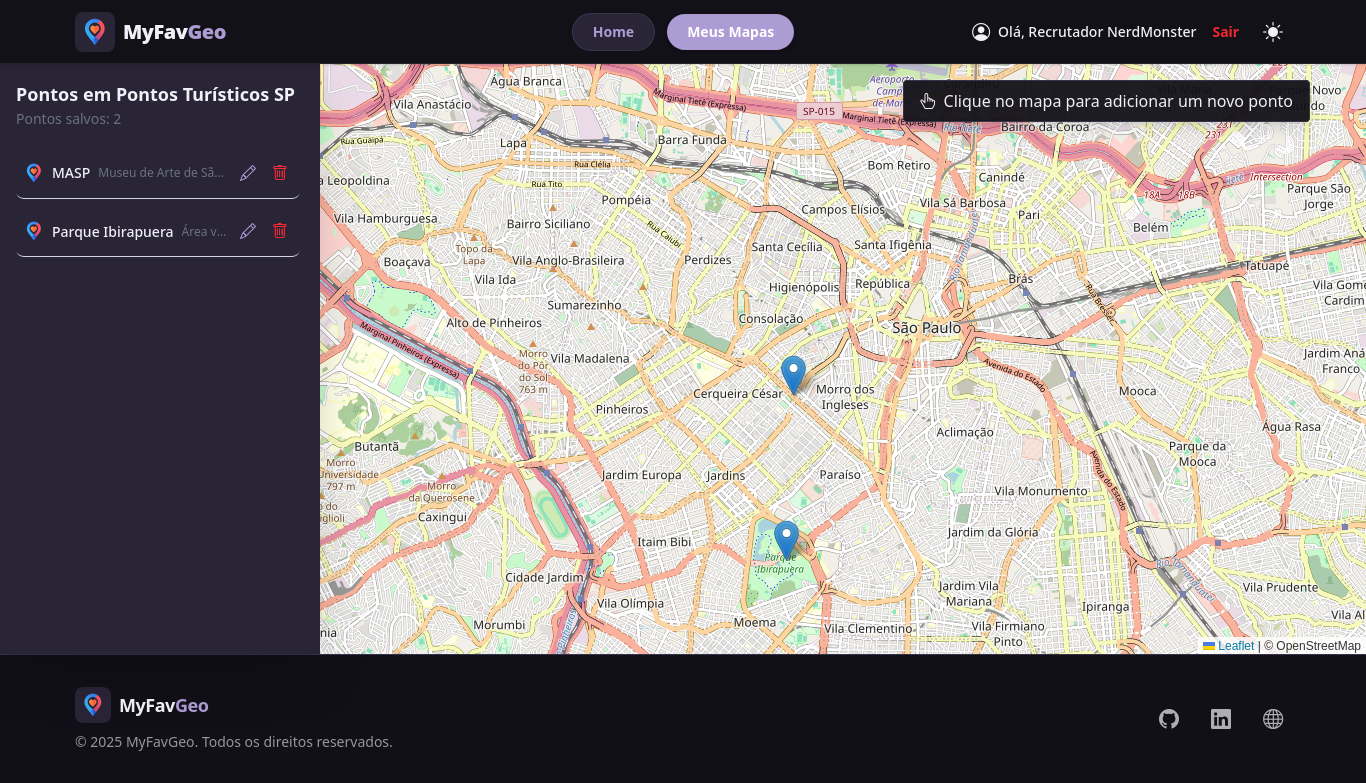
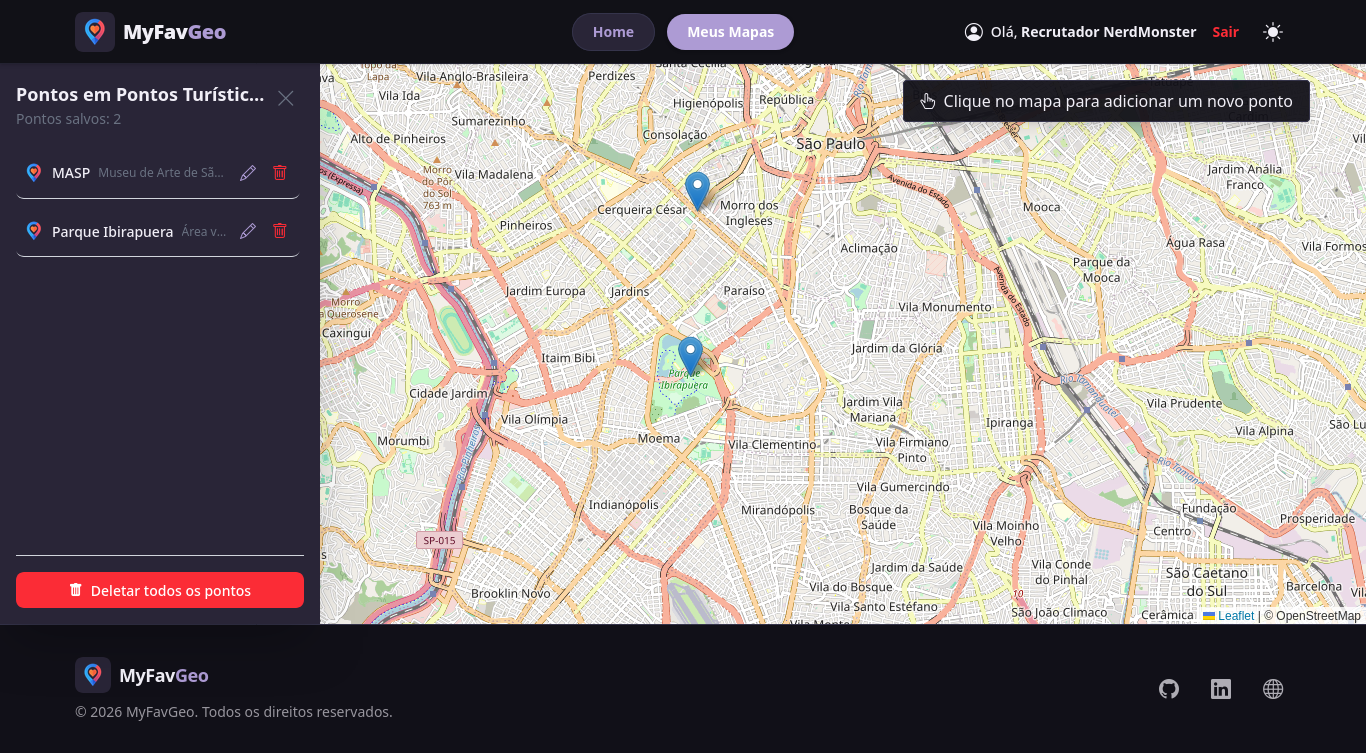
docs(readme): update main readme with database schema and project overview

diff --git a/README.md b/README.md
@@ -55,7 +55,11 @@ cd MyFavGeo-App
 2. Suba o ambiente com um único comando:
 
 ```bash
+## Opção 1: Para rodar com terminal livre
 docker-compose up -d --build
+
+## Opção 2: Para acompanhar todo o processo com os logs
+docker-compose up --build
 ```
 
 3. Aguarde alguns instantes para os containers iniciarem e o banco de dados ser populado.
@@ -85,7 +89,8 @@ Para facilitar a sua avaliação, o sistema já inicia com um usuário de teste 
 ---
 
 ## 🛠 Stack Tecnológica e Decisões
-
+[![Backend Docs](https://img.shields.io/badge/Backend-README-FF2D20?style=for-the-badge&logo=laravel)](./myfavgeo-backend/README.md)
+[![Frontend Docs](https://img.shields.io/badge/Frontend-README-000000?style=for-the-badge&logo=next.js)](./myfavgeo-frontend/README.md)
 ### Backend (Laravel 11 + PHP 8.3)
 
 Optei por uma arquitetura pensando em uma aplicação real com base em minhas experiências, indo além do básico:
@@ -103,6 +108,44 @@ Uma interface moderna e responsiva:
 - **Mapas Interativos:** Integração com **Leaflet** e OpenStreetMap como sugerido.
 - **UI/UX:** Design responsivo (Mobile First) estilizado com **Tailwind CSS**.
 - **Feedback Visual:** Modais, Loadings e tratamento de erros amigável.
+
+### Estrutura de Dados e Relacionamentos (MySQL/MariaDB)
+
+A arquitetura do banco de dados segue um modelo relacional, onde o usuário é o proprietário dos mapas e cada mapa agrupa diversos pontos geográficos.
+
+- **Usuários** `users`: Relacionamento -> Possui muitos (`HasMany`) _**Mapas**_. | **Segurança:** A senha é criptografada via Mutator (`bcrypt`)
+- **Mapas** `mapas`: Relacionamento -> Pertence a (`BelongsTo`) um **_Usuário_** e possui muitos (`HasMany`) **_Pontos_**. | **Funcionalidade:** Inclui lógica para formatação automática de nomes e tratamento de URLs de imagem.
+- **Pontos** `pontos`: Relacionamento -> Pertence a (`BelongsTo`) um _Mapa_. | **Atributos:** Armazena `latitude` e `longitude` como _floats_ para precisão de geolocalização.
+
+```mermaid
+erDiagram
+    USER ||--o{ MAPA : "possui"
+    MAPA ||--o{ PONTO : "contém"
+
+    USER {
+        int id PK
+        string nome
+        string email
+        string password
+    }
+
+    MAPA {
+        int id PK
+        int user_id FK
+        string nome
+        string descricao
+        string url_imagem
+    }
+
+    PONTO {
+        int id PK
+        int mapa_id FK
+        string nome
+        string descricao
+        float latitude
+        float longitude
+    }
+```
 
 ### Infraestrutura (Docker)
 
